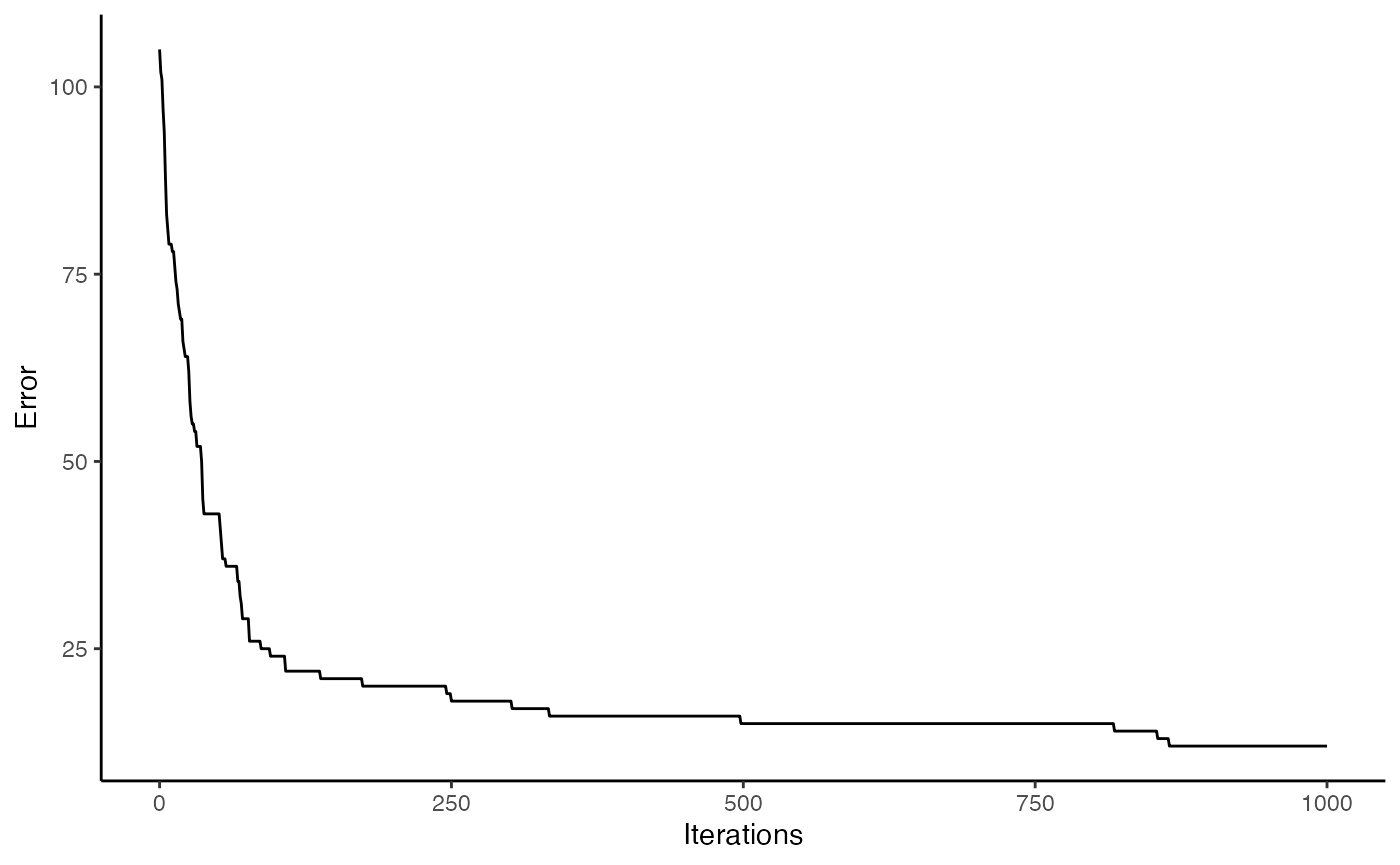
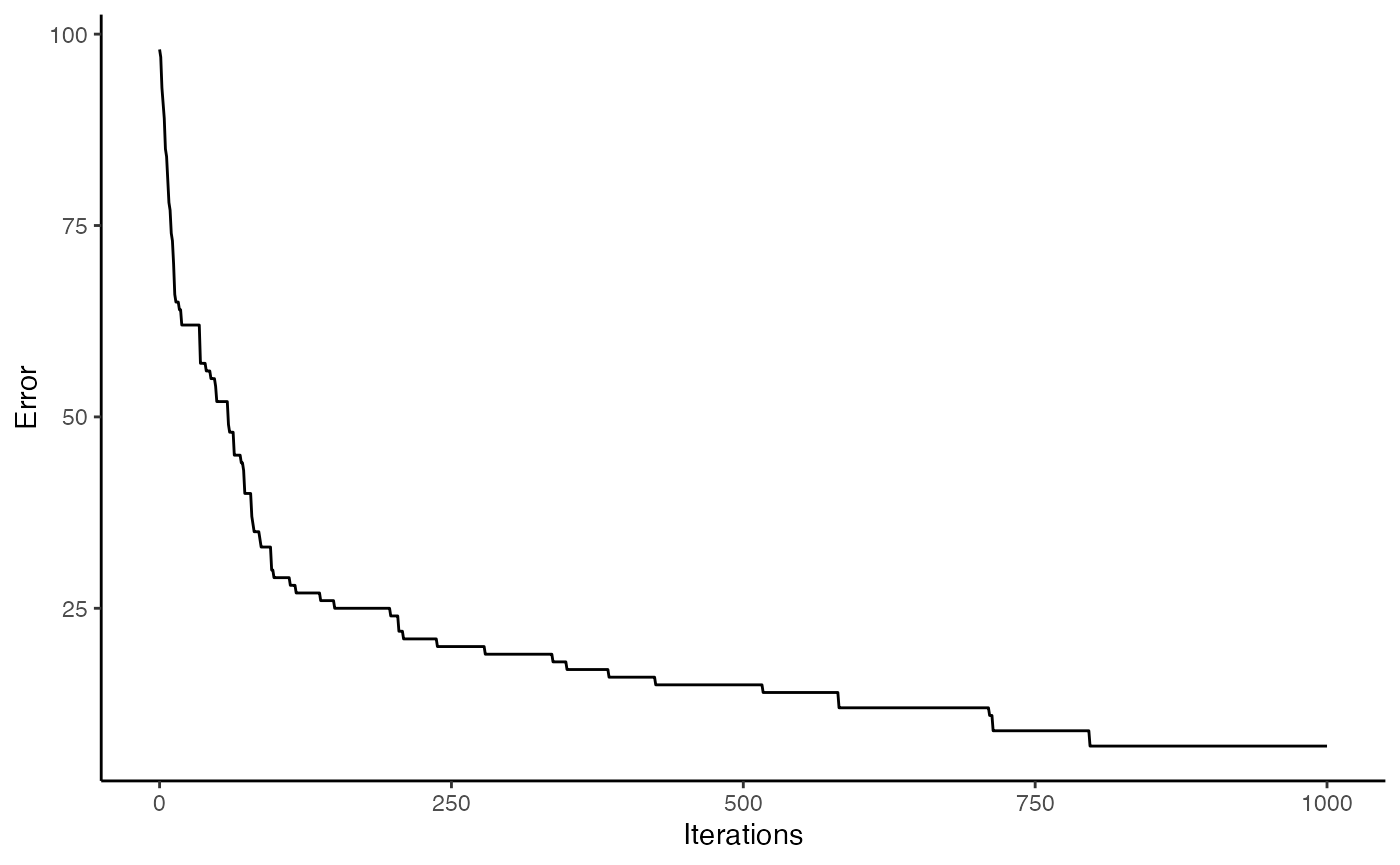
Built site for spectre: 1.0.2@f0d5f3b

diff --git a/articles/getting_started_with_spectre.html b/articles/getting_started_with_spectre.html
@@ -98,7 +98,7 @@
 </h1>
                         <h4 class="author">C.E. Simpkins, S. Hanss, M. Hesselbarth, M.C. Spangenberg, J. Salecker and K. Wiegand</h4>
             
-            <h4 class="date">2021-09-29</h4>
+            <h4 class="date">2021-10-01</h4>
       
       <small class="dont-index">Source: <a href="https://github.com/r-spatialecology/spectre/blob/master/vignettes/getting_started_with_spectre.Rmd"><code>vignettes/getting_started_with_spectre.Rmd</code></a></small>
       <div class="hidden name"><code>getting_started_with_spectre.Rmd</code></div>
@@ -158,7 +158,7 @@
   target <span class="op">=</span> <span class="va">objective_matrix</span>,
   max_iterations <span class="op">=</span> <span class="fl">1000</span><span class="op">)</span> <span class="co"># n iterations</span>
 <span class="co">#&gt; </span>
-<span class="co">#&gt;  &gt; Optimization finished with lowest absolute error = 12 (highest absolute error was: 105 improved by: 93)</span></code></pre></div>
+<span class="co">#&gt;  &gt; Optimization finished with lowest absolute error = 7 (highest absolute error was: 98 improved by: 91)</span></code></pre></div>
 </div>
 <div id="result-analysis" class="section level3">
 <h3 class="hasAnchor">
@@ -166,7 +166,7 @@
 <p><code>spectre</code> incorporates functions to allow for easy calculation of certain error metrics, namely the mean absolute commonness error (<span class="math inline">\(MAE_c\)</span>) and the relative commonness error (<span class="math inline">\(\% RCE\)</span>). <span class="math inline">\(MAE_c\)</span> is the mean of the absolute difference between the solved <em>solution matrix</em> and the <em>objective function</em>, whereas <span class="math inline">\(\% RCE\)</span> is the <span class="math inline">\(MAE_c\)</span> over the absolute commonness from the <em>objective function</em> represented as a percentage.</p>
 <div class="sourceCode" id="cb7"><pre class="downlit sourceCode r">
 <code class="sourceCode R"><span class="va">error_c</span> <span class="op">&lt;-</span> <span class="fu">spectre</span><span class="fu">::</span><span class="fu"><a href="../reference/calc_commonness_error.html">calc_commonness_error</a></span><span class="op">(</span>x <span class="op">=</span> <span class="va">res</span>, objective_matrix <span class="op">=</span> <span class="va">objective_matrix</span><span class="op">)</span></code></pre></div>
-<p>The <em>objective function</em> had a mean commonness of 1.75. The mean absolute error between the <em>objective function</em> and the solved <em>solution matrix</em> was 0.11. The solution matrix had an relative commonness error (RCE) of 6.5%.</p>
+<p>The <em>objective function</em> had a mean commonness of 1.75. The mean absolute error between the <em>objective function</em> and the solved <em>solution matrix</em> was 0.07. The solution matrix had an relative commonness error (RCE) of 3.8%.</p>
 <p>These results can be visualized in two ways using functions built into the package. First, one can plot the error of the solved <em>solution matrix</em> over time. Second, the commonness error between the final solved <em>solution matrix</em> and the <em>objective function</em> for each patch can be plotted</p>
 <div class="sourceCode" id="cb8"><pre class="downlit sourceCode r">
 <code class="sourceCode R"><span class="co"># With an increasing number of iterations, the solution matrix improved</span>

diff --git a/reference/run_optimization_min_conf.html b/reference/run_optimization_min_conf.html
@@ -183,9 +183,12 @@ algorithm may run through before stopping.</p></td>
     </tr>
     <tr>
       <th>partial_solution</th>
-      <td><p>An initial <code>matrix</code> of species presences and
+      <td><p>Can be either the result of a previous optimization
+run (see <code>value</code>) or an (initial) <code>matrix</code> of species presences and
 absences for each site in the landscape. The total number of presences must
-match the estimated species richness of each site.</p></td>
+match the estimated species richness of each site. If a result of a previous
+optimization is used, its <code>optimized_grid</code> is used as initial matrix and
+its <code>error</code> data frame will be extended with the new iterations.</p></td>
     </tr>
     <tr>
       <th>fixed_species</th>
@@ -204,7 +207,8 @@ the optimization run.</p></td>
     </tr>
     <tr>
       <th>interruptible</th>
-      <td><p>Allow a run to be interrupted before completion.</p></td>
+      <td><p>Allow a run to be interrupted before completion.
+<code>FALSE</code> increases the performance.#'</p></td>
     </tr>
     </table>
 

diff --git a/reference/spectre.html b/reference/spectre.html
@@ -146,6 +146,14 @@
 
 
 
+    <h2 class="hasAnchor" id="see-also"><a class="anchor" href="#see-also"></a>See also</h2>
+
+    <div class='dont-index'><p>Useful links:</p><ul>
+<li><p><a href='https://github.com/r-spatialecology/spectre/'>https://github.com/r-spatialecology/spectre/</a></p></li>
+<li><p>Report bugs at <a href='https://github.com/r-spatialecology/spectre/issues/'>https://github.com/r-spatialecology/spectre/issues/</a></p></li>
+</ul>
+
+</div>
     <h2 class="hasAnchor" id="author"><a class="anchor" href="#author"></a>Author</h2>
 
     <p><strong>Maintainer</strong>: Craig Simpkins <a href='mailto:simpkinscraig063@gmail.com'>simpkinscraig063@gmail.com</a></p>

diff --git a/articles/minimal_example.html b/articles/minimal_example.html
@@ -97,7 +97,7 @@
       <h1 data-toc-skip>Minimal example</h1>
                         <h4 class="author">C.E. Simpkins, S. Hanss, M. Hesselbarth, M.C. Spangenberg, J. Salecker and K. Wiegand</h4>
             
-            <h4 class="date">2021-09-29</h4>
+            <h4 class="date">2021-10-01</h4>
       
       <small class="dont-index">Source: <a href="https://github.com/r-spatialecology/spectre/blob/master/vignettes/minimal_example.Rmd"><code>vignettes/minimal_example.Rmd</code></a></small>
       <div class="hidden name"><code>minimal_example.Rmd</code></div>
